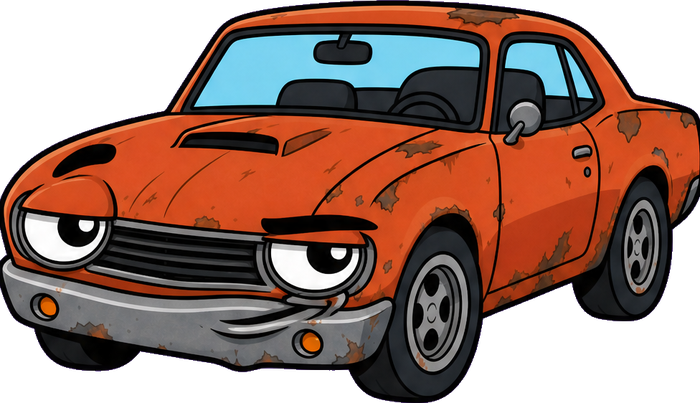
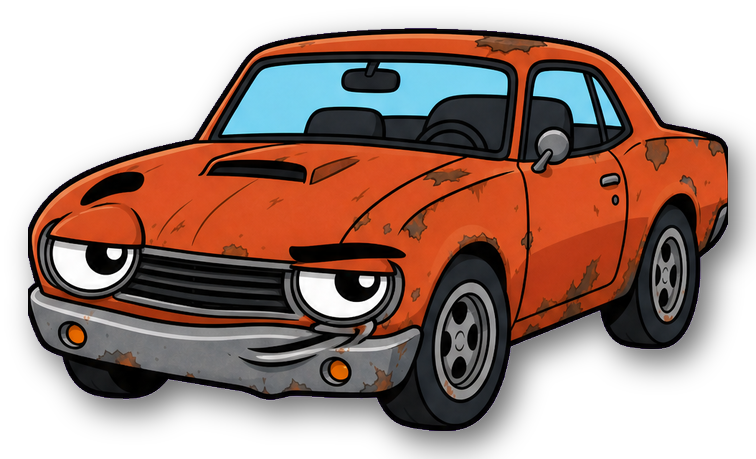
Shadow the characters, hold background clips longer, lift the pace
Four bits of owner feedback on episode 4.

A character vanished into a background of the same colour -- orange Rusty over
an orange car. Each face PNG now carries a soft drop shadow, which separates
them from ANY background; an outline colour only works until the background is
that colour. Face prep only ever existed as a scratch script, so it is now
scripts/make_faces.py, regenerating from the two expression grids. It always
starts from the grids, so re-running can never shadow an already-shadowed file.

The background appeared to cut every time the speaker changed. It was not
actually following the dialogue -- assemble_video_dynamic defaults to 3.5-5.5s
segments, which is almost exactly the length of one spoken line, so the two
edits kept landing together and read as one. Holding a clip for 8-13s spans two
or three turns and decouples them, leaving the character swap as the thing that
marks the change.

Pace: Rusty goes -3% -> +5% and Sparky +10% -> +12%. Most of the slowness was
not the voices though, it was the dead air between turns, so GAP_MS drops
180 -> 120. That lifts the whole thing without pushing either voice into
sounding rushed.

diff --git a/scripts/make_faces.py b/scripts/make_faces.py
@@ -1,0 +1,110 @@
+"""
+make_faces.py
+Cut the two 2x2 expression grids into the 8 transparent character PNGs the
+dialogue renderer overlays, and give each one a drop shadow.
+
+Always regenerates from the grids, so it is safe to re-run -- the shadow is
+never applied twice to an already-shadowed file.
+
+    python scripts/make_faces.py
+"""
+
+from collections import deque
+from pathlib import Path
+
+from PIL import Image, ImageFilter
+
+ROOT = Path(__file__).resolve().parent.parent
+SRC = ROOT / "branding" / "carveteran"
+OUT = SRC / "faces"
+
+GRIDS = {
+    "rusty": ("rusty_grid.png", ["deadpan", "smug", "eyeroll", "explaining"]),
+    "sparky": ("sparky_grid.png", ["happy", "question", "shocked", "delighted"]),
+}
+
+TOL = 42              # colour distance treated as "same as the background"
+SHADOW_BLUR = 14
+SHADOW_ALPHA = 150    # 0-255
+SHADOW_OFFSET = (10, 12)
+
+
+def strip_bg(im: Image.Image) -> Image.Image:
+    """Flood-fill transparency inward from the edges. Only clears background
+    CONNECTED to the border, so flat colours enclosed inside the car survive."""
+    im = im.convert("RGBA")
+    w, h = im.size
+    px = im.load()
+    ref = [px[s][:3] for s in [(0, 0), (w - 1, 0), (0, h - 1), (w - 1, h - 1)]]
+    seen = [[False] * h for _ in range(w)]
+    q = deque()
+    for x in range(w):
+        q.extend(((x, 0), (x, h - 1)))
+    for y in range(h):
+        q.extend(((0, y), (w - 1, y)))
+    while q:
+        x, y = q.popleft()
+        if x < 0 or y < 0 or x >= w or y >= h or seen[x][y]:
+            continue
+        r, g, b, _ = px[x, y]
+        if not any(abs(r - c[0]) + abs(g - c[1]) + abs(b - c[2]) < TOL for c in ref):
+            continue
+        seen[x][y] = True
+        px[x, y] = (r, g, b, 0)
+        q.extend(((x + 1, y), (x - 1, y), (x, y + 1), (x, y - 1)))
+    return im
+
+
+def add_shadow(im: Image.Image) -> Image.Image:
+    """Soft dark shadow behind the character.
+
+    Without it a character disappears into a background of the same colour --
+    orange Rusty over an orange car was the case that prompted this. The shadow
+    separates them from ANY background, which an outline colour cannot do.
+
+    The canvas grows by the blur plus the offset so the shadow is never clipped;
+    the render scales on width, so a slightly wider PNG just means the character
+    sits fractionally smaller, not shifted.
+    """
+    pad = SHADOW_BLUR * 2
+    w, h = im.size
+    canvas = Image.new("RGBA", (w + pad * 2, h + pad * 2), (0, 0, 0, 0))
+
+    shadow = Image.new("RGBA", canvas.size, (0, 0, 0, 0))
+    alpha = im.getchannel("A").point(lambda a: SHADOW_ALPHA if a > 8 else 0)
+    solid = Image.new("RGBA", im.size, (0, 0, 0, 255))
+    solid.putalpha(alpha)
+    shadow.paste(solid, (pad + SHADOW_OFFSET[0], pad + SHADOW_OFFSET[1]))
+    shadow = shadow.filter(ImageFilter.GaussianBlur(SHADOW_BLUR))
+
+    canvas = Image.alpha_composite(canvas, shadow)
+    canvas.paste(im, (pad, pad), im)
+    return canvas
+
+
+def main():
+    OUT.mkdir(parents=True, exist_ok=True)
+    for who, (grid_name, names) in GRIDS.items():
+        grid_path = SRC / grid_name
+        if not grid_path.exists():
+            print(f"  missing {grid_path} -- skipping {who}")
+            continue
+        grid = Image.open(grid_path).convert("RGBA")
+        W, H = grid.size
+        inset = int(W * 0.012)          # skip the white gutter between cells
+        for i, name in enumerate(names):
+            cx, cy = i % 2, i // 2
+            cell = grid.crop((cx * W // 2 + inset, cy * H // 2 + inset,
+                              (cx + 1) * W // 2 - inset, (cy + 1) * H // 2 - inset))
+            cut = strip_bg(cell)
+            if bbox := cut.getbbox():   # trim dead margin before the shadow
+                cut = cut.crop(bbox)
+            cut.thumbnail((700, 700), Image.LANCZOS)
+            cut = add_shadow(cut)
+            p = OUT / f"{who}_{name}.png"
+            cut.save(p)
+            print(f"  {p.name:26} {cut.size}")
+
+
+if __name__ == "__main__":
+    main()

diff --git a/dialogue_video.py b/dialogue_video.py
@@ -46,16 +46,16 @@ OUT = ROOT / "output" / "car_channel"
 # +/-25Hz. They still blurred together -- a shared timbre survives pitch
 # shifting. Changing the ACCENT is the lever that actually works: you can tell
 # them apart inside one word.
-# Rusty's rate was -8%, which dragged: the slower the delivery, the longer every
-# comma and full stop is held, and his lines carry the most punctuation. The
-# accent split and the -18Hz do the "older, heavier" work on their own, so the
-# rate no longer has to.
+# Rusty's rate has come up twice, -8% then -3% and now positive: the slower the
+# delivery, the longer every comma and full stop is held, and his lines carry the
+# most punctuation of the two. The accent split and the -18Hz do the "older,
+# heavier" work on their own, so the rate does not have to.
 VET = {"name": "Rusty", "voice": "en-US-ChristopherNeural",
-       "rate": "-3%", "pitch": "-18Hz", "side": "left",
+       "rate": "+5%", "pitch": "-18Hz", "side": "left",
        "faces": ["deadpan", "smug", "eyeroll", "explaining"],
        "default_face": "deadpan"}
 ROOKIE = {"name": "Sparky", "voice": "en-GB-RyanNeural",
-          "rate": "+10%", "pitch": "+30Hz", "side": "right",
+          "rate": "+12%", "pitch": "+30Hz", "side": "right",
           "faces": ["happy", "question", "shocked", "delighted"],
           "default_face": "happy"}
 SPEAKERS = {"VET": VET, "ROOKIE": ROOKIE}
@@ -70,7 +70,17 @@ SLIDE_S = 0.22        # how long a character takes to slide in when their turn s
 MARGIN = 30           # gap from the frame edge
 BOTTOM_PAD = 160      # gap from the bottom; captions now sit centred, above this
 
-GAP_MS = 180          # beat between lines so it reads as a conversation
+# Beat between lines. Was 180ms; a big part of "it sounds slow" was not the
+# voices at all but the dead air between turns, and tightening this speeds the
+# whole thing up without pushing either voice into sounding rushed.
+GAP_MS = 120
+
+# How long one background clip is held. assemble_video_dynamic defaults to
+# 3.5-5.5s, which is almost exactly the length of one spoken line, so the
+# background appeared to cut every time the speaker changed and the two edits
+# fought each other. Holding a clip across two or three turns decouples them, so
+# the character swap is the thing that reads as the change.
+CUT_MIN, CUT_MAX = 8.0, 13.0
 
 # Closing subscribe ask, spoken by VET after the last line. An explainer channel
 # earns subscribers differently from a story channel: a story is finished when
@@ -348,6 +358,7 @@ def render(script: dict, footage: list[Path]) -> Path:
 
     plain = OUT / f"{stem}_plain.mp4"
     assemble_video_dynamic([str(f) for f in footage], str(voice), str(ass), str(plain),
+                           cut_min=CUT_MIN, cut_max=CUT_MAX,
                            hook_card_path=card, hook_card_seconds=card_seconds)
 
     out = OUT / f"{stem}.mp4"
